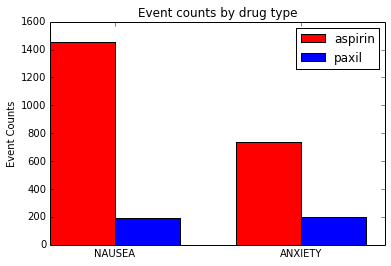
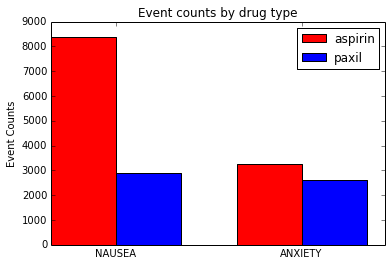
made markdown for fda part 2

diff --git a/intermediate/datavis/05-datavis_fda_part2.md b/intermediate/datavis/05-datavis_fda_part2.md
@@ -1,0 +1,253 @@
+---
+layout: lesson
+root: ../..
+---
+
+# Introduction
+
+
+<div>
+<p>In this example we use line charts and area charts to graph data sampled at many time periods.</p>
+</div>
+
+
+<div class="in">
+<pre>import pandas as pd
+import numpy as np
+import json as js
+import urllib2 as ulib
+import simplejson
+import matplotlib.pyplot as plt
+from operator import itemgetter
+import datetime
+
+%matplotlib inline </pre>
+</div>
+
+
+<div>
+<p>Define a function to get adverse event data that has been reported within a specific time period.</p>
+</div>
+
+
+<div class="in">
+<pre>def get_event_data(drugname, start_date, end_date):
+    # form a request
+    
+    api_key=&#39;6OcOelyLSQYJAZlZ8C1XggprPQ5oBx8171k9z0aP&#39;
+    
+    #request_string=&#39;http://api.fda.gov/drug/event.json?search=patient.drug.medicinalproduct:&#39;+drugname+&#39;+AND+receivedate:[2012-01-01+TO+2012-12-31]&amp;count=patient.reaction.reactionmeddrapt.exact&#39;
+    request_string=&#39;https://api.fda.gov/drug/event.json?api_key=&#39;+api_key+&#39;&amp;search=patient.drug.medicinalproduct:&#39;+str(drugname)+&#39;+AND+receivedate:[&#39;+str(start_date)+&#39;+TO+&#39;+str(end_date)+&#39;]&amp;count=patient.reaction.reactionmeddrapt.exact&#39;
+    
+    request=ulib.Request(request_string)
+
+    # open the url
+    opener = ulib.build_opener()
+    f = opener.open(request)
+
+    # load as json
+    fda_data=simplejson.load(f)
+    
+    # return the results
+    return fda_data[&#39;results&#39;]</pre>
+</div>
+
+
+<div>
+<p>Define a function to return the total number of adverse events that were reported.</p>
+</div>
+
+
+<div class="in">
+<pre>def get_total_adverse_events(event_list):
+    total=0
+    for event_info in event_list:
+        total+=event_info[&#39;count&#39;]
+    return total</pre>
+</div>
+
+
+<div>
+<p>This step is optional because the data has allready been saved. We first loop through several drugs. Then we loop through several years of data with a stepsize of 1 week. For each week we call the function to request the adverse event data and the function to calculate the total number of adverse events. We save the data to a dictionary.</p>
+<p>Note: In the loop we call the API over 200 times for four different drugs. Thus 800 api calls are made. OpenFDA has a limit of 240 calls per minute. Depending on the speed of connection this loop may violate the api call limit.</p>
+</div>
+
+
+<div class="in">
+<pre>#define a list of drugs to investigate
+drugs=[&#39;paxil&#39;, &#39;lexapro&#39;, &#39;hydrocodone&#39;, &#39;xanax&#39;]
+
+drug_dictionary={}
+
+#for each drug create an empty dictionary
+for drug in drugs:
+
+    start= datetime.datetime(2008, 01, 01)
+    delta =  datetime.timedelta(weeks=1)
+    stop = start+delta
+
+    data=[]
+    i=0;
+
+    while start.year&lt;2012:
+        eventlist=get_drug_data(drug, start.strftime(&#39;%Y-%m-%d&#39;), stop.strftime(&#39;%Y-%m-%d&#39;))
+        total=get_total_adverse_events(eventlist)
+        print str(start)+&#34; &#34;+str(total)
+        year=start.year
+        entry={}
+        
+        entry[&#39;event_count&#39;]=total
+        entry[&#39;date&#39;]=start
+        data.append(entry)
+        i=i+1
+        start=stop
+        stop=start+delta
+        
+    drug_dictionary[drug]=data</pre>
+</div>
+
+
+<div>
+<p>Save the data using the json format.</p>
+</div>
+
+
+<div class="in">
+<pre>import json
+with open(&#39;drug_events.json&#39;, &#39;wb&#39;) as fp:
+    json.dump(drug_dictionary, fp)
+    
+fp.close()</pre>
+</div>
+
+
+<div>
+<p>Open the adverse event data. The data has been pre-saved and provided with the lesson (for the case the api calls above failed)</p>
+</div>
+
+
+<div class="in">
+<pre>with open(&#39;drug_events.json&#39;, &#39;rb&#39;) as fp:
+    data = json.load(fp)</pre>
+</div>
+
+
+<div>
+<p>We need a function to smooth our data. This one is taken from the scipy cookbook http://wiki.scipy.org/Cookbook/SignalSmooth</p>
+</div>
+
+
+<div class="in">
+<pre>def smooth(x,window_len=11,window=&#39;hanning&#39;):
+        if x.ndim != 1:
+                raise ValueError, &#34;smooth only accepts 1 dimension arrays.&#34;
+        if x.size &lt; window_len:
+                raise ValueError, &#34;Input vector needs to be bigger than window size.&#34;
+        if window_len&lt;3:
+                return x
+        if not window in [&#39;flat&#39;, &#39;hanning&#39;, &#39;hamming&#39;, &#39;bartlett&#39;, &#39;blackman&#39;]:
+                raise ValueError, &#34;Window is on of &#39;flat&#39;, &#39;hanning&#39;, &#39;hamming&#39;, &#39;bartlett&#39;, &#39;blackman&#39;&#34;
+        s=np.r_[2*x[0]-x[window_len-1::-1],x,2*x[-1]-x[-1:-window_len:-1]]
+        if window == &#39;flat&#39;: #moving average
+                w=np.ones(window_len,&#39;d&#39;)
+        else:  
+                w=eval(&#39;np.&#39;+window+&#39;(window_len)&#39;)
+        y=np.convolve(w/w.sum(),s,mode=&#39;same&#39;)
+        return y[window_len:-window_len+1]</pre>
+</div>
+
+
+<div>
+<p>First lets plot the data using a straight forward line chart.</p>
+</div>
+
+
+<div class="in">
+<pre>smoothed_data={}
+
+for drug in drugs:
+    event_list=[]
+    #&#39;lexapro&#39;, &#39;hydrocodone&#39;
+    for entry in data[drug]:
+        event_list.append( entry[&#39;event_count&#39;] )
+    x=np.arange(len(event_list))
+    plt.plot(x, event_list)
+    smoothed_data[drug]=smooth(np.array(event_list),50)
+</pre>
+</div>
+
+<div class="out">
+<pre>
+<img src="../../intermediate/datavis/05-datavis_fda_part2_files/intermediate/datavis/05-datavis_fda_part2_16_0.png">
+</pre>
+</div>
+
+
+<div>
+<p>The data is very noisy with spikes that appear correlated (TODO: Double check and make sure the data was downloaded properly, if so brainstorm explanations for the spikes). Smooth the data and plot again.</p>
+</div>
+
+
+<div class="in">
+<pre>for drug in drugs:
+    smoothed=smoothed_data[drug]
+    x=np.arange(len(smoothed))
+    plt.plot(x, smoothed)</pre>
+</div>
+
+<div class="out">
+<pre>
+<img src="../../intermediate/datavis/05-datavis_fda_part2_files/intermediate/datavis/05-datavis_fda_part2_18_0.png">
+</pre>
+</div>
+
+
+<div>
+<p>Stacked area chart to look at relative and absolute differences. (http://stackoverflow.com/questions/2225995/how-can-i-create-stacked-line-graph-with-matplotlib)</p>
+</div>
+
+
+<div class="in">
+<pre>fig = plt.figure()
+ax1 = fig.add_subplot(111)
+
+y=np.row_stack(( np.array(smoothed_data[drugs[0]]), np.array(smoothed_data[drugs[1]]), np.array(smoothed_data[drugs[2]])))
+
+y_stack=np.cumsum(y, axis=0)
+
+x=np.arange(len(smoothed_data[drugs[0]]))
+
+ax1.stackplot(x, y_stack)
+</pre>
+</div>
+
+<div class="out">
+<pre>[&lt;matplotlib.collections.PolyCollection at 0x7f88e7807350&gt;,
+ &lt;matplotlib.collections.PolyCollection at 0x7f88e77c2bd0&gt;,
+ &lt;matplotlib.collections.PolyCollection at 0x7f88e77c2590&gt;]
+<img src="../../intermediate/datavis/05-datavis_fda_part2_files/intermediate/datavis/05-datavis_fda_part2_20_1.png">
+</pre>
+</div>
+
+
+<div>
+<p>Stacked 100% area chart to look at only relative differences. In this case the 100% stacked area chart is very useful since the data has correlated peaks. http://stackoverflow.com/questions/16875546/create-a-100-stacked-area-chart-with-matplotlib</p>
+</div>
+
+
+<div class="in">
+<pre>percent = y_stack /  y_stack.sum(axis=0).astype(float) * 100 
+
+fig = plt.figure()
+ax1 = fig.add_subplot(111)
+
+ax1.stackplot(x, percent)</pre>
+</div>
+
+<div class="out">
+<pre>[&lt;matplotlib.collections.PolyCollection at 0x7f88e777fa10&gt;,
+ &lt;matplotlib.collections.PolyCollection at 0x7f88e777ff10&gt;,
+ &lt;matplotlib.collections.PolyCollection at 0x7f88e76cf790&gt;]
+<img src="../../intermediate/datavis/05-datavis_fda_part2_files/intermediate/datavis/05-datavis_fda_part2_22_1.png">
+</pre>
+</div>

diff --git a/intermediate/datavis/04-dataviz-fda.md b/intermediate/datavis/04-dataviz-fda.md
@@ -24,6 +24,12 @@ from operator import itemgetter
 %matplotlib inline </pre>
 </div>
 
+<div class="out">
+<pre>/usr/local/lib/python2.7/dist-packages/pandas/io/excel.py:626: UserWarning: Installed openpyxl is not supported at this time. Use &gt;=1.6.1 and &lt;2.0.0.
+  .format(openpyxl_compat.start_ver, openpyxl_compat.stop_ver))
+</pre>
+</div>
+
 
 <div class="in">
 <pre># try reading with pandas... This seems to raise an error...
@@ -39,7 +45,7 @@ from operator import itemgetter
 <div class="in">
 <pre>def get_drug_data(drugname):
     # form a request
-    request_string=&#39;http://api.fda.gov/drug/event.json?search=patient.drug.medicinalproduct:&#39;+drugname+&#39;+AND+receivedate:[2012-01-01+TO+2012-12-31]&amp;count=patient.reaction.reactionmeddrapt.exact&#39;
+    request_string=&#39;http://api.fda.gov/drug/event.json?search=patient.drug.medicinalproduct:&#39;+drugname+&#39;&amp;count=patient.reaction.reactionmeddrapt.exact&#39;
     
     request=ulib.Request(request_string)
 
@@ -82,8 +88,8 @@ druglist2=get_drug_data(drugname2)
 symptom1=&#39;NAUSEA&#39;
 symptom2=&#39;ANXIETY&#39;
 
-aspirin_list=[get_symptom_count(drug1, symptom1), get_symptom_count(druglist1, symptom2)]
-paxil_list=[get_symptom_count(drug2, symptom1), get_symptom_count(druglist2, symptom2)]
+aspirin_list=[get_symptom_count(druglist1, symptom1), get_symptom_count(druglist1, symptom2)]
+paxil_list=[get_symptom_count(druglist2, symptom1), get_symptom_count(druglist2, symptom2)]
 
 </pre>
 </div>
@@ -118,8 +124,8 @@ plt.show()</pre>
 </div>
 
 <div class="out">
-<pre>[1451, 739]
-[194, 202]
+<pre>[8382, 3267]
+[2897, 2605]
 
 <img src="../../intermediate/datavis/04-dataviz-fda_files/intermediate/datavis/04-dataviz-fda_10_1.png">
 </pre>
@@ -138,8 +144,8 @@ count1=[]
 count2=[]
 
 for symptom in symptoms:
-    count1.append(get_symptom_count(drug1, symptom))
-    count2.append(get_symptom_count(drug2, symptom))
+    count1.append(get_symptom_count(druglist1, symptom))
+    count2.append(get_symptom_count(druglist2, symptom))
     
 ind=np.arange(len(count1))
                   
